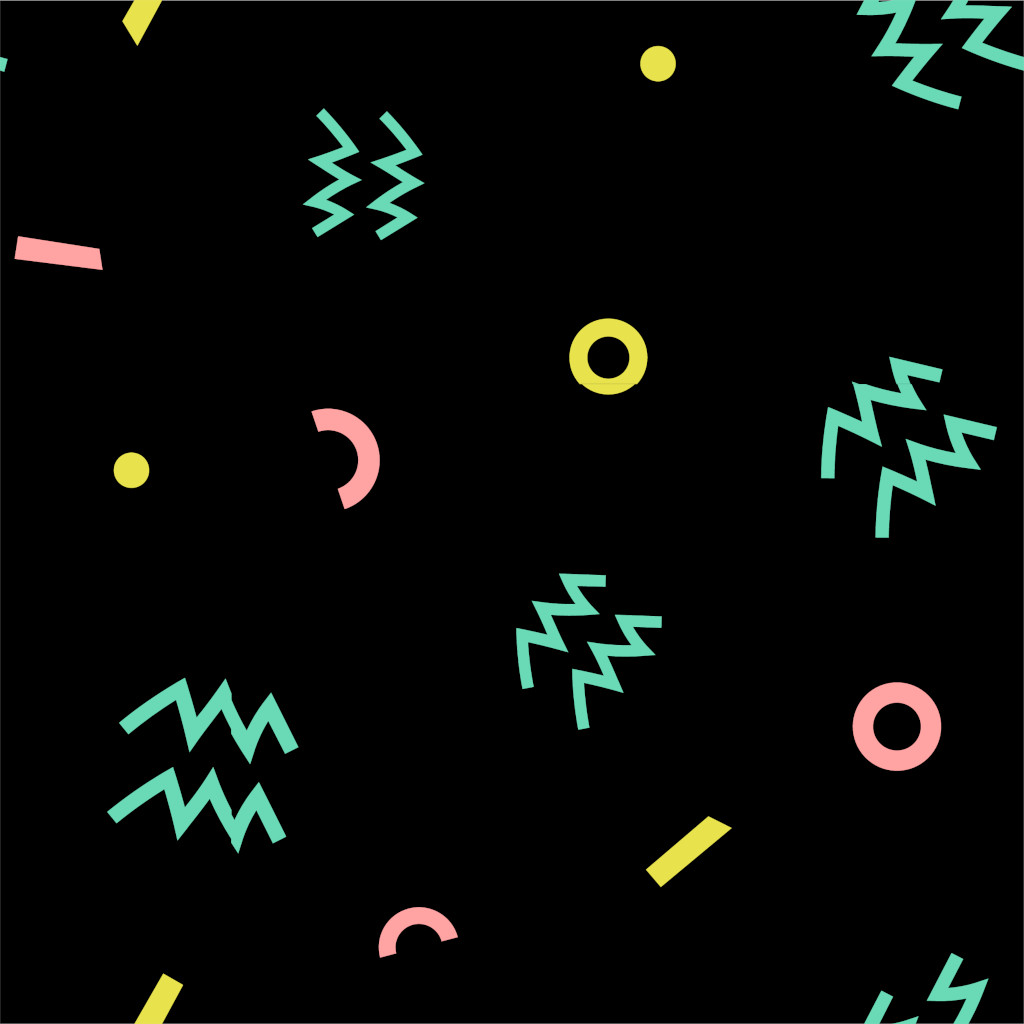
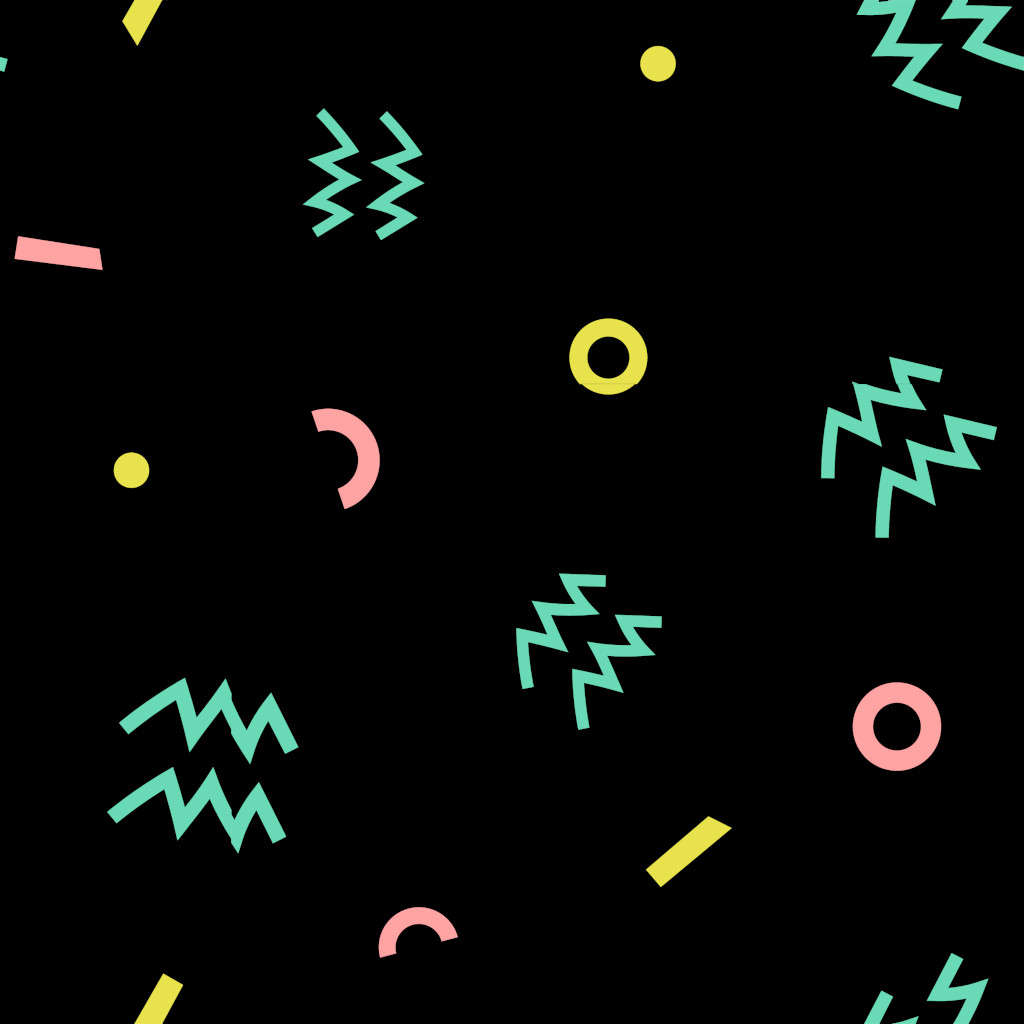
1.5.5.2

diff --git a/js/ScriptsMenu.js b/js/ScriptsMenu.js
@@ -1,3 +1,5 @@
+if (localStorage.getItem('ArcadeMatches') == null) {localStorage.setItem('ArcadeMatches', 0)}
+
 window.onload = function onload() {
   switch (localStorage.getItem('sound')) {
     case 'true':
@@ -15,18 +17,43 @@ window.onload = function onload() {
       $('setting, .soundpanel').removeClass('hidden');
       break;
     }
+  if (localStorage.getItem('reloadArcade') == 1) {
+    ArcadeSwitch()
+    localStorage.setItem('reloadArcade', 0)
+  }
 };
 
 //Sound controller
-function soundYes() {
-  localStorage.setItem('sound', true);
+function sound(yn) {
+  if (yn == 0) {
+    localStorage.setItem('sound', true)
+  }
+  else if (yn == 1) { 
+    localStorage.setItem('sound', false) 
+  }
   location.reload();
 }
 
-function soundNo() {
-  localStorage.setItem('sound', false);
-  location.reload();
+//Arcade Levels
+switch (localStorage.getItem('ArcadeLevel')) {
+  case null:
+  case '0':
+    localStorage.setItem('ArcadeLevel', 0);
+    $('#arcadeUpgrade').html('Matches played: <i>' + localStorage.getItem('ArcadeMatches') + '/3</i><br>Award: <i>Match length from 5 to 10</i>');
+    if (localStorage.getItem('ArcadeMatches') >= 3) {
+      $('.aLevelUp').removeClass('disabled');
+    }
+    break;
 }
+
+function LevelUpA() {
+  let al = parseInt(localStorage.getItem('ArcadeLevel'));
+  localStorage.setItem('ArcadeLevel', al + 1);
+  localStorage.setItem('reloadArcade', 1);
+  location.reload()
+}
+
+$('.aLevelH2').html('Level ' + (parseInt(localStorage.getItem('ArcadeLevel')) + 1))
 
 //Switcher machanism
 function StorySwitch(){
@@ -165,6 +192,6 @@ if (localStorage.getItem('MaxSurvivedHard') == 20) {
 
 //Clears progress
 function resetEverything() {
-    localStorage.clear();
-    location.reload();
+  localStorage.clear();
+  location.reload();
 }

diff --git a/index.html b/index.html
@@ -106,6 +106,11 @@
 			<div class='card acrylic'>
 				<a class='playbig' href='Arcade/Arcade.html'><svg class='icon' style='width: 160px; height: 160px'><use xlink:href='#play'/></svg></a>
 			</div>
+			<div class='card acrylic alevelcard'>
+				<h2 class='aLevelH2'></h2>
+				<p id='arcadeUpgrade'></p>
+				<a class='button aLevelUp disabled' onClick='LevelUpA()'>Upgrade</a>
+			</div>
 			<div class='card acrylic'>
 				<p id='ArcadeMode'></p>
 			</div>
@@ -133,8 +138,8 @@
 		<div class='flexsettings'>
 			<div class='acrylic card soundpanel' style='padding: 1em 0'>
 				<svg class='icon' style='width: 150px; height: 150px; margin: auto'><use xlink:href='#sound'/></svg><br>
-				<a class='button btnsoundy' onClick='soundYes()'>On</a>
-				<a class='button btnsoundn' onClick='soundNo()'>Off</a>
+				<a class='button btnsoundy' onClick='sound(0)'>On</a>
+				<a class='button btnsoundn' onClick='sound(1)'>Off</a>
 			</div>
 			<div class='acrylic card' style='padding: 1em 0'>
 				<h2>Credits:</h2>

diff --git a/sw.js b/sw.js
@@ -26,9 +26,11 @@ const assets = [
     '/resources/help.svg',
     '/resources/home.png',
     '/resources/home.svg',
+    '/resources/pattern.jpg',
     '/resources/Project_Passage.png',
     '/resources/refresh.png',
     '/resources/refresh.svg',
+    '/resources/statue.png',
     '/Story/Scenarios/M1Scenarios.js',
     '/Story/Scenarios/M2Scenarios.js',
     '/Story/Scenarios/M3Scenarios.js',
